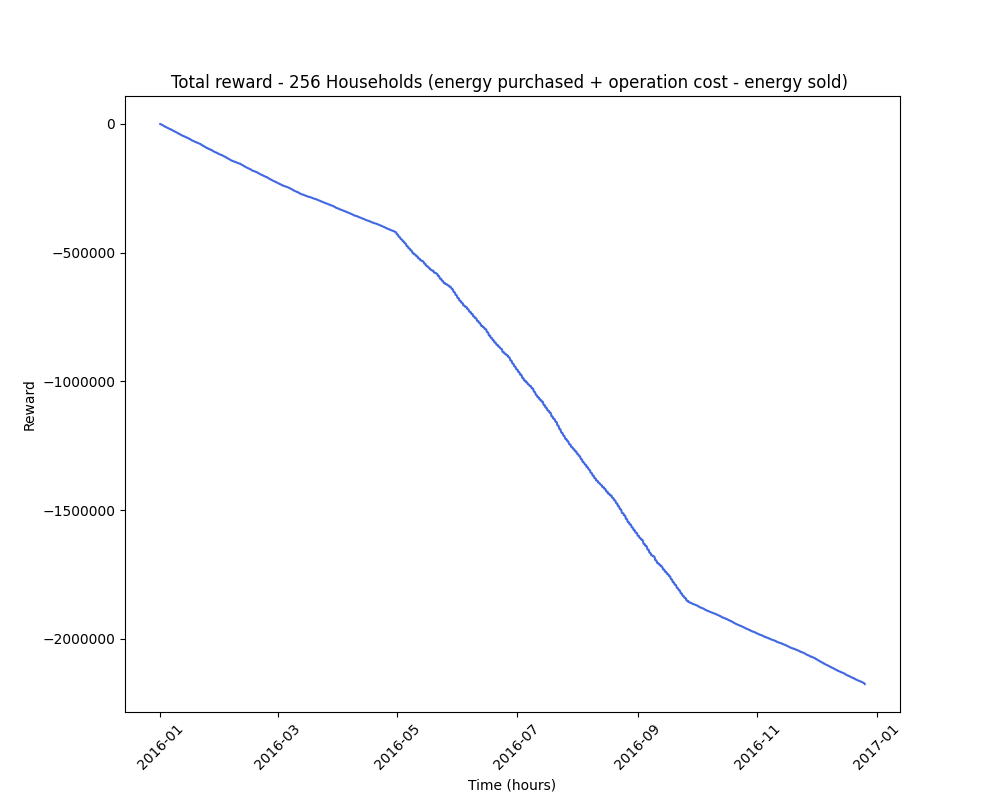
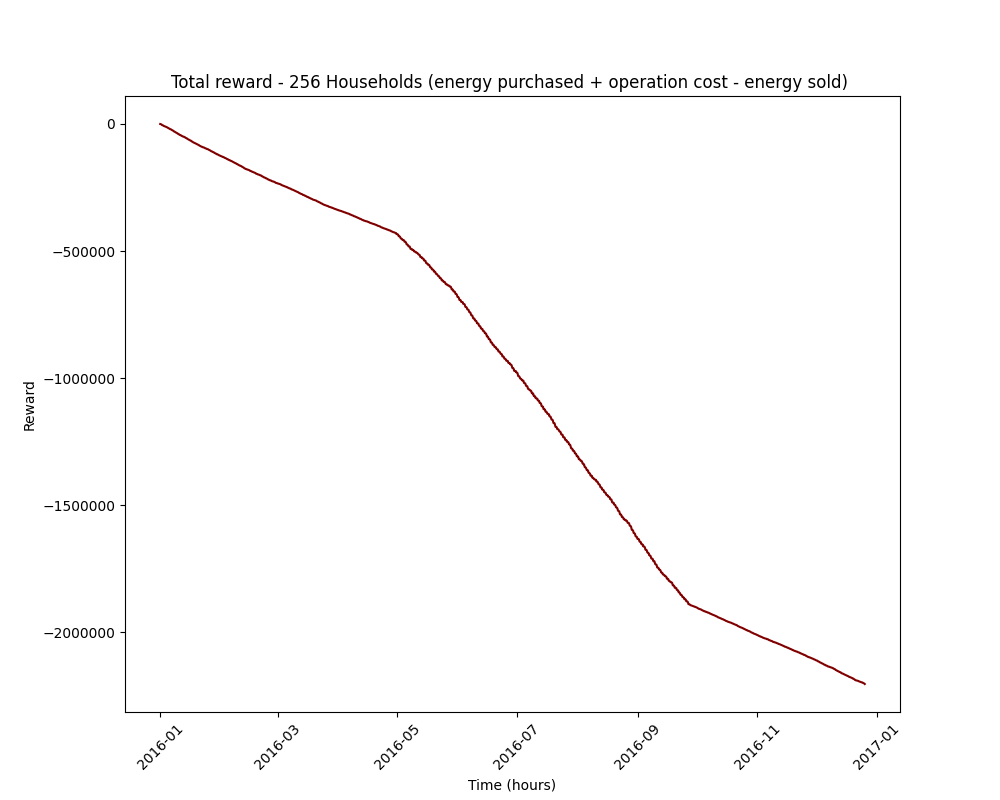
reuploaded figure 7 now in red...

diff --git a/src/plotting.py b/src/plotting.py
@@ -193,7 +193,7 @@ def plot_solar_both(env, info1, info2):
 
 
 
-def plot_reward(env, info_matrix, color='royalblue'):
+def plot_reward(env, info_matrix, color='maroon'):
     time_index = pd.date_range(start='2016-01-01', periods=env.data_len(), freq='H')
     reward_sum = [sum(info_matrix[1, :i+1]) for i in range(len(info_matrix[1]))]
     data = {
